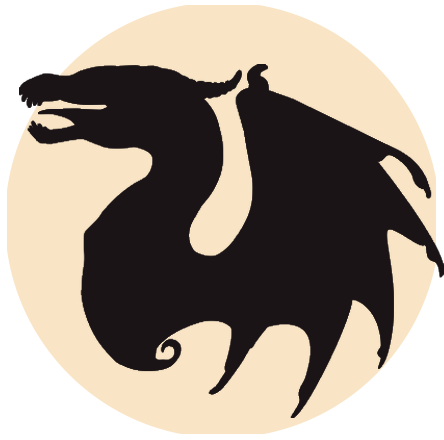
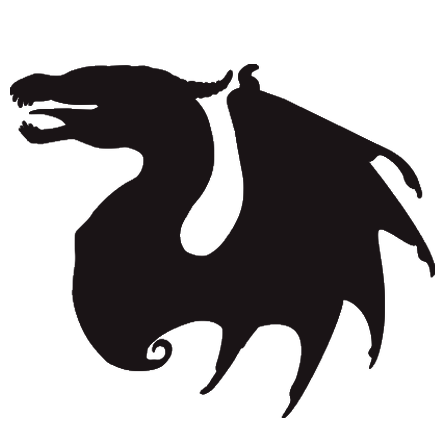
mobile project link styling

diff --git a/components/Card.jsx b/components/Card.jsx
@@ -109,15 +109,17 @@ export default function Card() {
             {projects.map((project, index) => {
               return (
                 <div className={styles.each} key={index}>
+										<a href={project.github} target="_blank">
                   <div className={styles.mobileImgContainer} id="face">
                     <Image
                       className={styles.mobileCardImg}
                       src={project.img}
                       alt={project.alt}
-                      width={240}
-                      height={240}
+                      width={130}
+                      height={130}
                     ></Image>
                   </div>
+										</a>
                 </div>
               );
             })}

diff --git a/styles/Home.module.scss b/styles/Home.module.scss
@@ -233,7 +233,8 @@
 
 .mobilePContainer {
 	.mobileText{
-
+		text-align: center;
+		color: $text-secondary;
 	}
 	.mobileCard{
 		display: flex;
@@ -241,8 +242,11 @@
 		justify-content: space-around;
 		.each{
 			margin-top: 3vh;
-			background-color: $color-primary;
+			background-color: $color-secondary;
 			.mobileImgContainer{
+				width: 100vw;
+				display: flex;
+				justify-content: center;
 				.mobileCardImg{
 				}
 			}
